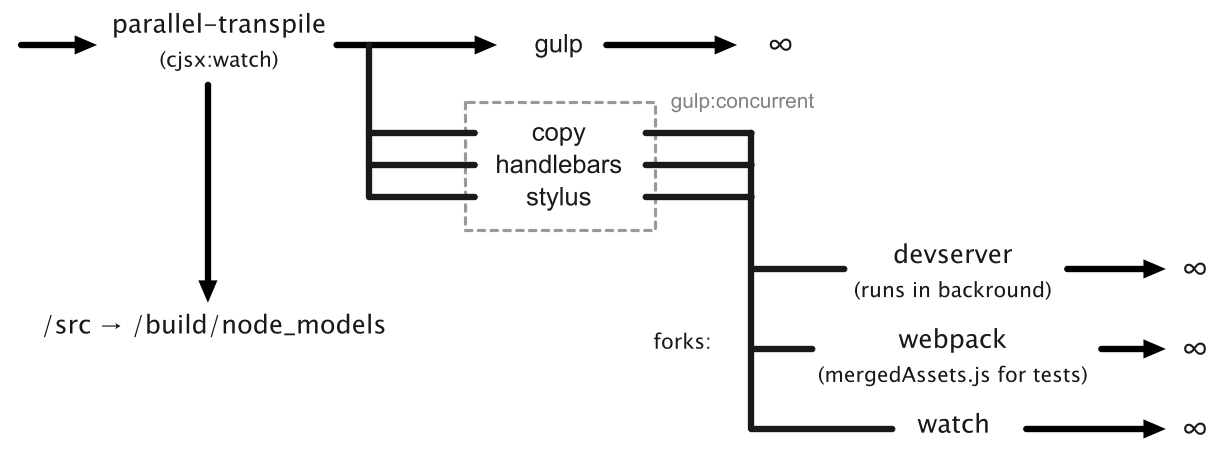
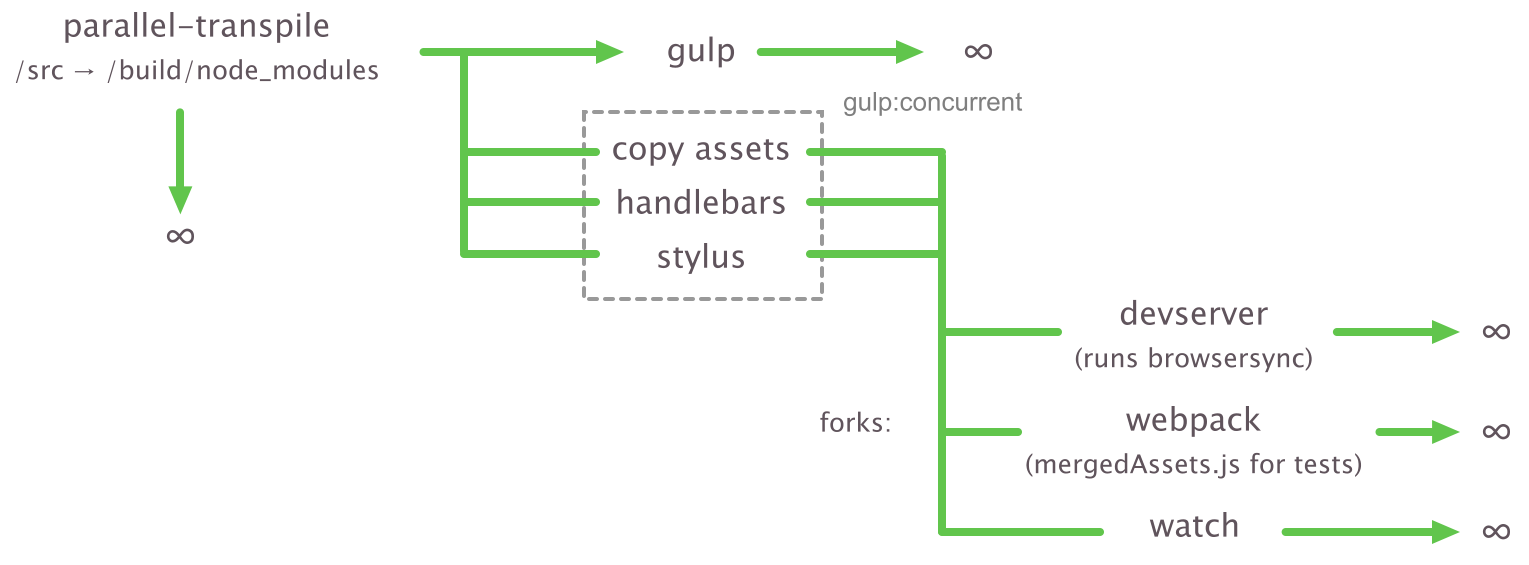
Update servers slide

diff --git a/index.html b/index.html
@@ -922,12 +922,20 @@ timecounts `mehserve` ([github](https://github.com/timecounts/mehserve))
 - Still under development (ugly errors, OSX instructions only)
 - diagram
 ---
+class: middle
+
+### It works like this:
+
+
+<img src="images/meh.png" class="servers" />
+
+---
 
 class: middle
 ### timecounts `parallel-transpile` ([github](https://github.com/timecounts/parallel-transpile))
 - uses all CPU cores to transpile source files quickly
 - supports many webpack loaders and loader-chains  
-  e.g. cjsx -> coffee -> jsx -> js
+  e.g. cjsx → coffee → jsx → js
 - incremental updates (using file modification timestamps)
 - used with webpack can speed up build times significantly
 - suitable for one-to-one transpiles only
